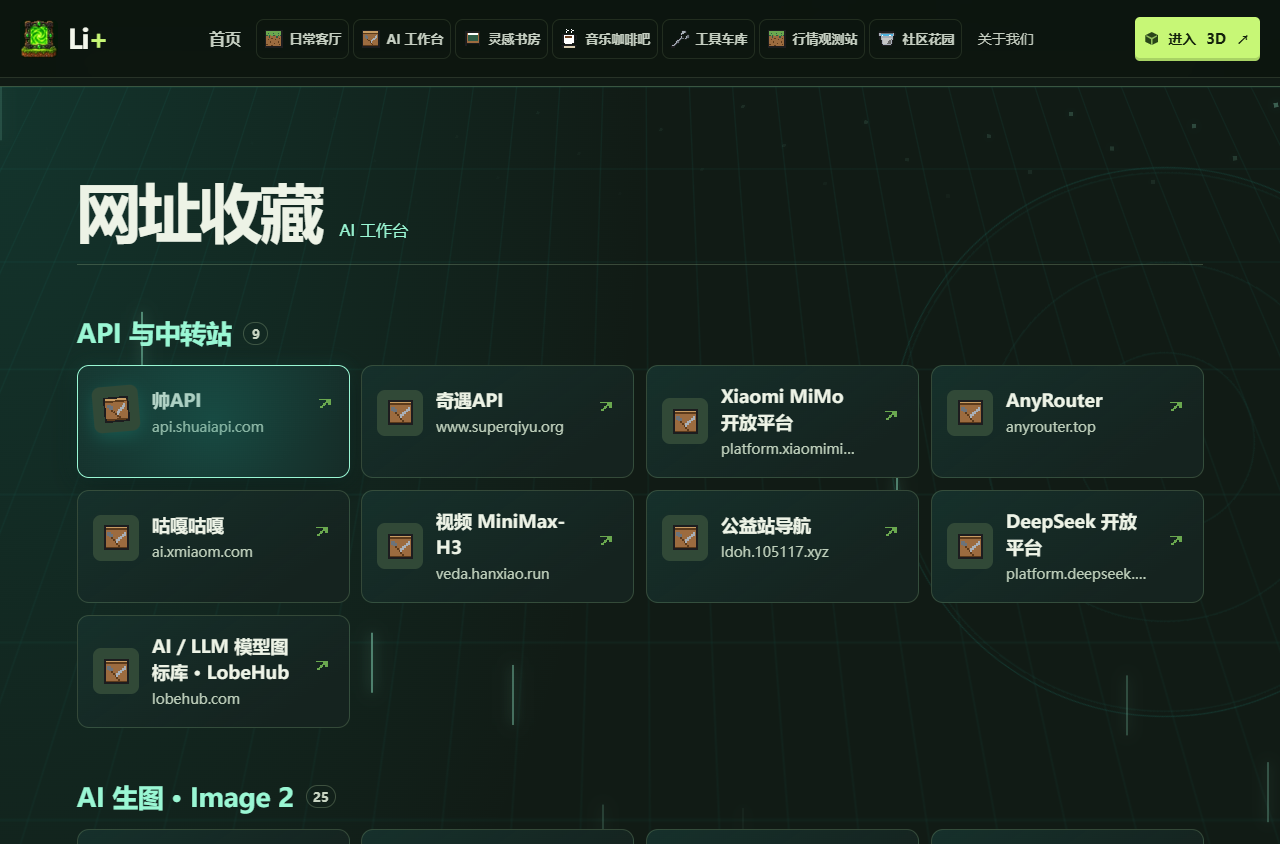
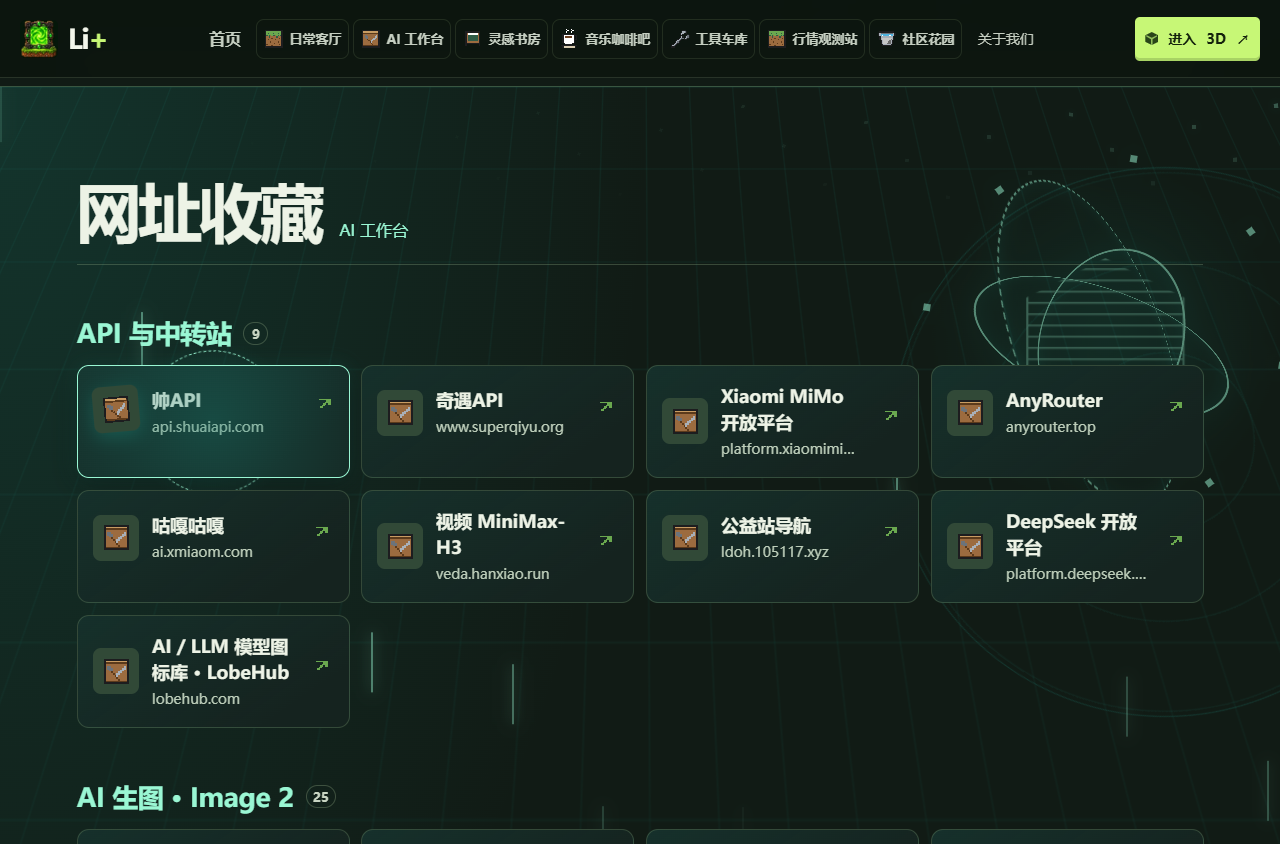
v

Changed region(s): [[0.7812, 0.2773, 0.9375, 0.4313]]

diff --git a/navigation/directory-spectacle.css b/navigation/directory-spectacle.css
@@ -1,0 +1,65 @@
+/* Large-scale choreography and seven distinct background installations. */
+.spectacle-stage{position:absolute;inset:0;pointer-events:none;z-index:0;overflow:hidden;color:var(--accent-room)}
+.directory-fx>.room-heading,.directory-fx>.room-groups{position:relative;z-index:1}
+.theme-device{position:absolute;right:-45px;top:30px;width:440px;height:440px;opacity:.5;perspective:650px;filter:drop-shadow(0 0 12px rgb(var(--glow-room)/.5))}
+.device-halo{position:absolute;inset:10%;border-radius:50%;background:radial-gradient(circle,rgb(var(--glow-room)/.22),transparent 70%)}
+.device-ring{position:absolute;inset:12%;border:2px solid currentColor;border-radius:50%;box-shadow:inset 0 0 20px rgb(var(--glow-room)/.3);animation:device-spin 14s linear infinite}
+.ring-a{border-style:dashed;transform:rotateX(65deg)}
+.ring-b{inset:20%;animation-direction:reverse;transform:rotateY(65deg)}
+.ring-c{inset:29%;transform:rotateX(-40deg);animation-duration:9s}
+.device-heart{position:absolute;inset:40%;border:2px solid currentColor;background:rgb(var(--glow-room)/.3);box-shadow:0 0 45px rgb(var(--glow-room)/.7);animation:heart-breathe 4s ease-in-out infinite alternate}
+.theme-device>b{position:absolute;left:49%;top:49%;width:7px;height:7px;background:currentColor;transform:rotate(calc(var(--n)*45deg)) translateX(180px);animation:satellite 18s linear infinite}
+.device-about .device-heart{border-radius:15%;transform:rotate(45deg)}
+.device-about .device-ring{border-radius:20%;border-style:dotted}
+.device-works .device-heart{clip-path:polygon(50% 0,100% 25%,100% 75%,50% 100%,0 75%,0 25%);inset:34%;background:repeating-linear-gradient(0deg,transparent 0 8px,currentColor 9px 10px)}
+.device-writing .device-ring{border-radius:4px 35px 8px 4px;inset:20% 25%;transform-origin:left;animation:device-pages 8s ease-in-out infinite}
+.device-writing .ring-b{animation-delay:-2s}.device-writing .ring-c{animation-delay:-4s}
+.device-writing .device-heart{inset:28% 47%;border:0;box-shadow:0 0 22px currentColor}
+.device-coffee .device-halo{inset:8%;background:repeating-radial-gradient(circle,#101f1c 0 9px,#bc8d5733 10px 12px);border:2px solid currentColor;animation:device-spin 14s linear infinite}
+.device-coffee .device-ring{transform:none;border-style:dashed}.device-coffee .device-heart{border-radius:50%;inset:42%;background:currentColor}
+.device-lab .device-ring{border-radius:12%;border-width:7px;border-style:dashed;transform:none}
+.device-lab .device-heart{inset:37%;background:repeating-linear-gradient(45deg,transparent 0 8px,currentColor 9px 11px)}
+.device-court{transform:rotateX(25deg)}
+.device-court .device-halo{background:conic-gradient(transparent 60%,rgb(var(--glow-room)/.7));animation:device-spin 6s linear infinite}
+.device-court .device-ring{transform:none;animation:none}
+.device-pool .device-ring{border-radius:70% 20% 70% 20%;border-color:#8be2ab;animation:vine-grow 7s ease-in-out infinite alternate}
+.device-pool .device-heart{border-radius:60% 0;transform:rotate(45deg);background:#f7bee6}
+.device-pool>b{width:15px;height:10px;border-radius:80% 0;background:#f5c0ed;animation:butterfly 9s calc(var(--n)*-.8s) ease-in-out infinite alternate}
+.hyper-rays{position:absolute;top:0;left:0;width:100%;height:min(100vh,900px);opacity:0;overflow:hidden}
+.hyper-rays i{position:absolute;left:50%;top:42%;width:70%;height:2px;transform-origin:left;background:linear-gradient(90deg,transparent 20%,var(--accent-room),transparent);transform:rotate(var(--angle)) scaleX(.1)}
+.spectacle-boot .hyper-rays{animation:hyper-fade 1.5s both}
+.spectacle-boot .hyper-rays i{animation:hyper-jump 1.4s calc(var(--n)*9ms) both}
+.boot-door{display:none;position:absolute;top:0;height: min(90vh,850px);width:50%;background:linear-gradient(90deg,#102522e8,#28494399);border:1px solid currentColor}
+[data-room=lab] .boot-door{display:block;opacity:0}
+[data-room=lab] .spectacle-boot .door-left{left:0;animation:door-open 1.3s both}
+[data-room=lab] .spectacle-boot .door-right{right:0;animation:door-open-right 1.3s both}
+[data-room=writing] .spectacle-boot .theme-device{animation:book-open 1.5s both}
+[data-room=pool] .spectacle-boot .theme-device{animation:garden-grow 2s both}
+[data-room=works] .spectacle-boot .theme-device{animation:core-boot 1.6s both}
+.shock-front,.search-beam{position:absolute;left:0;right:0;height:70px;opacity:0;background:linear-gradient(transparent,rgb(var(--glow-room)/.22));border-bottom:2px solid currentColor;box-shadow:0 12px 30px rgb(var(--glow-room)/.2)}
+.search-beam{top:0;height:140px;border-bottom-style:dashed}
+.energy-wires{position:absolute;inset:0;overflow:visible}
+.energy-wires path{fill:none;stroke:var(--accent-room);stroke-width:2;stroke-dasharray:1;filter:drop-shadow(0 0 5px currentColor)}
+.energy-field{position:absolute;left:0;top:0;width:180px;height:180px;margin:-90px;opacity:0;border-radius:50%;background:radial-gradient(circle,rgb(var(--glow-room)/.35),transparent 65%);transition:opacity .3s}
+.energy-field.energized{opacity:1}
+.energy-field i{position:absolute;inset:25%;border:1px dashed currentColor;border-radius:50%;animation:device-spin 5s linear infinite}
+.energy-field i:nth-child(2){inset:10%;animation-direction:reverse}.energy-field i:nth-child(3){inset:40%;background:currentColor;box-shadow:0 0 20px currentColor}
+.energy-trail{position:absolute;width:5px;height:5px;background:currentColor;box-shadow:0 0 10px currentColor}
+.target-lock .room-card{outline:1px dashed rgb(var(--glow-room)/.6);outline-offset:-5px}
+.target-lock .room-card-exit{border:1px solid currentColor;padding:0 4px;box-shadow:0 0 12px rgb(var(--glow-room)/.3)}
+.directory-fx:not(.fx-visible) .spectacle-stage *,.fx-paused .spectacle-stage *{animation-play-state:paused!important}
+@keyframes device-spin{to{rotate:360deg}}
+@keyframes heart-breathe{to{scale:1.16;opacity:.5}}
+@keyframes satellite{to{transform:rotate(calc(var(--n)*45deg + 360deg)) translateX(180px)}}
+@keyframes device-pages{50%{transform:rotateY(-55deg) rotateZ(-10deg)}}
+@keyframes vine-grow{to{rotate:25deg;scale:1.12}}
+@keyframes butterfly{to{translate:-80px 100px;rotate:65deg;scale:.6}}
+@keyframes hyper-fade{0%{opacity:0}20%{opacity:.75}100%{opacity:0}}
+@keyframes hyper-jump{to{transform:rotate(var(--angle)) scaleX(1.7)}}
+@keyframes door-open{0%{opacity:1;translate:0}100%{opacity:0;translate:-100%}}
+@keyframes door-open-right{0%{opacity:1;translate:0}100%{opacity:0;translate:100%}}
+@keyframes book-open{from{transform:perspective(600px) rotateY(-80deg);opacity:0}to{transform:perspective(600px) rotateY(0);opacity:.5}}
+@keyframes garden-grow{from{clip-path:inset(100% 0 0)}to{clip-path:inset(0)}}
+@keyframes core-boot{from{scale:.1;rotate:-90deg;opacity:0}to{scale:1;rotate:0deg;opacity:.5}}
+@media(max-width:700px){.theme-device{width:290px;height:290px;right:-95px;opacity:.32}.theme-device>b:nth-last-child(-n+4){display:none}.energy-field,.energy-trail{display:none}.hyper-rays i:nth-child(2n){display:none}}
+@media(prefers-reduced-motion:reduce){.hyper-rays,.boot-door,.energy-field,.energy-trail,.shock-front,.search-beam{display:none}.spectacle-stage *{animation:none!important;transition:none!important}}

diff --git a/navigation/directory-spectacle.js b/navigation/directory-spectacle.js
@@ -1,0 +1,64 @@
+// Event-driven spectacle layer. No permanent JavaScript animation loop.
+export function mountSpectacle(root) {
+ const reduce=matchMedia('(prefers-reduced-motion: reduce)'), fine=matchMedia('(pointer:fine)');
+ const rooms=[...root.querySelectorAll('.room-directory')];
+ const active=new Set();
+ const animate=(el,frames,options)=>{if(!reduce.matches&&!document.hidden)return el.animate(frames,options);};
+ const observer=new IntersectionObserver(entries=>entries.forEach(({target,isIntersecting})=>{
+  if(isIntersecting){active.add(target); if(!target.dataset.booted){target.dataset.booted='true';target.classList.add('spectacle-boot');}}
+  else active.delete(target);
+ }),{threshold:0});
+ rooms.forEach(room=>{
+  const type=room.closest('.scene').dataset.room;
+  const stage=document.createElement('div');stage.className='spectacle-stage';stage.setAttribute('aria-hidden','true');
+  stage.innerHTML=`<div class="hyper-rays">${Array.from({length:24},(_,i)=>`<i style="--angle:${i*15}deg;--n:${i}"></i>`).join('')}</div><div class="theme-device device-${type}"><div class="device-halo"></div><div class="device-ring ring-a"></div><div class="device-ring ring-b"></div><div class="device-ring ring-c"></div><div class="device-heart"></div>${Array.from({length:8},(_,i)=>`<b style="--n:${i}"></b>`).join('')}</div><div class="boot-door door-left"></div><div class="boot-door door-right"></div><div class="shock-front"></div><div class="search-beam"></div><svg class="energy-wires" width="100%" height="100%"></svg><div class="energy-field"><i></i><i></i><i></i></div>`;
+  room.prepend(stage);observer.observe(room);
+ });
+ let lastCard=null, tick=0,lastWave=0;
+ function chain(card){
+  if(!card||reduce.matches)return;
+  const room=card.closest('.room-directory'),svg=room.querySelector('.energy-wires'),base=room.getBoundingClientRect(),r=card.getBoundingClientRect();
+  svg.replaceChildren();
+  const x=r.left+r.width/2-base.left,y=r.top+r.height/2-base.top;
+  [...room.querySelectorAll('.room-card.fx-visible')].filter(c=>c!==card).map(c=>({c,r:c.getBoundingClientRect()})).sort((a,b)=>Math.hypot(a.r.left-r.left,a.r.top-r.top)-Math.hypot(b.r.left-r.left,b.r.top-r.top)).slice(0,4).forEach(({c,r:t},i)=>{
+   const tx=t.left+t.width/2-base.left,ty=t.top+t.height/2-base.top;
+   const path=document.createElementNS('http://www.w3.org/2000/svg','path');path.setAttribute('d',`M ${x} ${y} V ${(y+ty)/2} H ${tx} V ${ty}`);path.setAttribute('pathLength','1');svg.append(path);
+   animate(path,[{strokeDashoffset:1,opacity:0},{opacity:1,offset:.3},{strokeDashoffset:0,opacity:0}],{duration:950,delay:i*65})?.finished.then(()=>path.remove(),()=>path.remove());
+   animate(c,[{borderColor:'var(--accent-room)',boxShadow:'0 0 26px rgb(var(--glow-room)/.65)'},{borderColor:'#6b87635e',boxShadow:'0 0 0 transparent'}],{duration:800,delay:150+i*65});
+  });
+ }
+ root.addEventListener('pointermove',e=>{
+  if(reduce.matches||!fine.matches||tick)return;
+  const room=e.target.closest('.room-directory');if(!room)return;
+  const x=e.clientX,y=e.clientY,card=e.target.closest('.room-card');
+  tick=requestAnimationFrame(()=>{tick=0;const r=room.getBoundingClientRect(),field=room.querySelector('.energy-field');field.style.translate=`${x-r.left}px ${y-r.top}px`;field.classList.add('energized');
+   const trail=document.createElement('em');trail.className='energy-trail';trail.style.left=`${x-r.left}px`;trail.style.top=`${y-r.top}px`;room.querySelector('.spectacle-stage').append(trail);
+   animate(trail,[{opacity:.8,transform:'scale(1)'},{opacity:0,transform:'translateY(-22px) scale(.1)'}],{duration:500})?.finished.then(()=>trail.remove(),()=>trail.remove());
+   if(card!==lastCard){lastCard=card;chain(card);}
+  });
+ });
+ root.addEventListener('pointerout',e=>{const room=e.target.closest('.room-directory');if(room&&!room.contains(e.relatedTarget))room.querySelector('.energy-field').classList.remove('energized');});
+ root.addEventListener('focusin',e=>chain(e.target.closest('.room-card')));
+ root.addEventListener('pointerdown',e=>{if(!fine.matches)chain(e.target.closest('.room-card'));});
+ window.addEventListener('scroll',()=>{
+  if(reduce.matches||document.hidden||performance.now()-lastWave<850)return;lastWave=performance.now();
+  active.forEach(room=>{
+   const r=room.getBoundingClientRect(),y=Math.max(0,-r.top)+innerHeight*.15;
+   const wave=room.querySelector('.shock-front');wave.style.top=`${y}px`;
+   animate(wave,[{opacity:0,transform:'translateY(0)'},{opacity:.65,offset:.15},{opacity:0,transform:`translateY(${innerHeight*.7}px)`}],{duration:850});
+   room.querySelectorAll('.room-card.fx-visible').forEach((card,i)=>animate(card,[{translate:'0 0'},{translate:'0 -5px',offset:.45},{translate:'0 0'}],{duration:500,delay:Math.min(i*25,250)}));
+  });
+ },{passive:true});
+ let searchTimer;
+ document.querySelector('#room-query')?.addEventListener('input',()=>{
+  clearTimeout(searchTimer);searchTimer=setTimeout(()=>{
+   if(reduce.matches)return;
+   rooms.forEach(room=>{
+    room.classList.toggle('target-lock',Boolean(document.querySelector('#room-query').value.trim()));
+    const beam=room.querySelector('.search-beam');
+    if(active.has(room))animate(beam,[{opacity:0,transform:'translateY(0)'},{opacity:.6,offset:.2},{opacity:0,transform:`translateY(${Math.min(room.clientHeight,innerHeight)}px)`}],{duration:950});
+   });
+  },100);
+ });
+ reduce.addEventListener('change',()=>{if(reduce.matches)rooms.forEach(room=>{room.getAnimations({subtree:true}).forEach(a=>a.cancel());room.querySelector('.energy-field').classList.remove('energized');});});
+}

diff --git a/navigation/directory-effects.js b/navigation/directory-effects.js
@@ -1,3 +1,4 @@
+import { mountSpectacle } from './directory-spectacle.js';
 // Lightweight effects: animation is restricted to visible directories and cards.
 export function mountDirectoryEffects(root) {
   const reduced = matchMedia('(prefers-reduced-motion: reduce)');
@@ -21,6 +22,7 @@ export function mountDirectoryEffects(root) {
     room.prepend(decor,bridge);
     observer.observe(room);
   }
+  mountSpectacle(root);
   let observed=[];
   function refresh() {
     observed.forEach(node=>observer.unobserve(node));

diff --git a/index.html b/index.html
@@ -17,6 +17,7 @@
 <link rel="stylesheet" href="navigation/search-inventory.css">
 <link rel="stylesheet" href="navigation/scenes.css">
 <link rel="stylesheet" href="navigation/directory-effects.css">
+<link rel="stylesheet" href="navigation/directory-spectacle.css">
 <link rel="stylesheet" href="navigation/scene-effects.css">
 <script type="importmap">{"imports":{
   "three":"./vendor/three/three.module.min.js",
